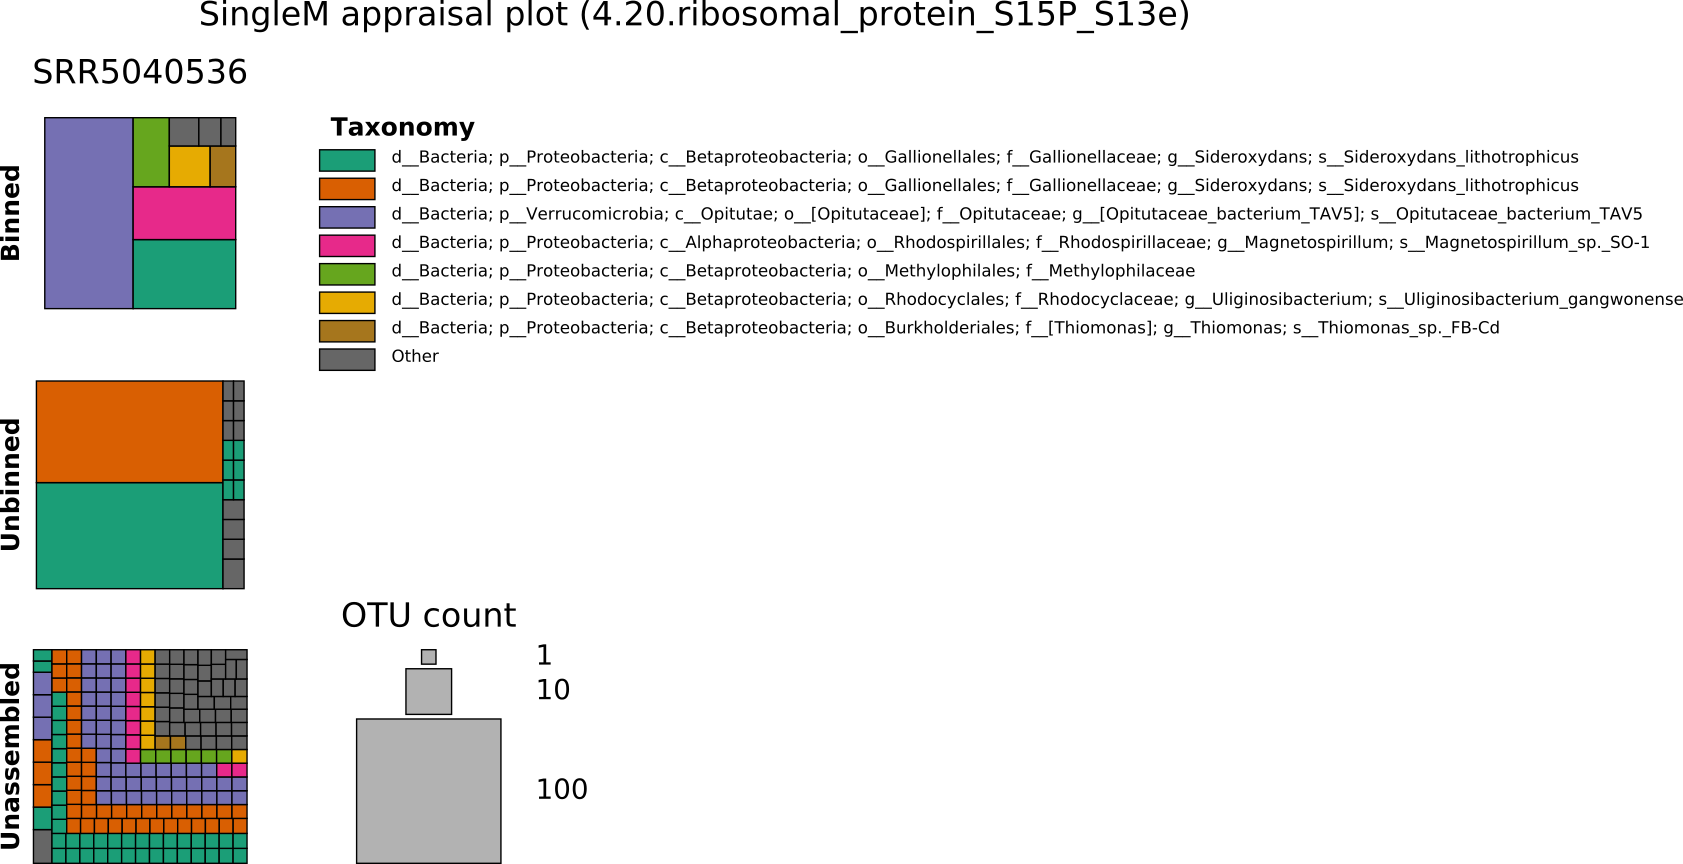
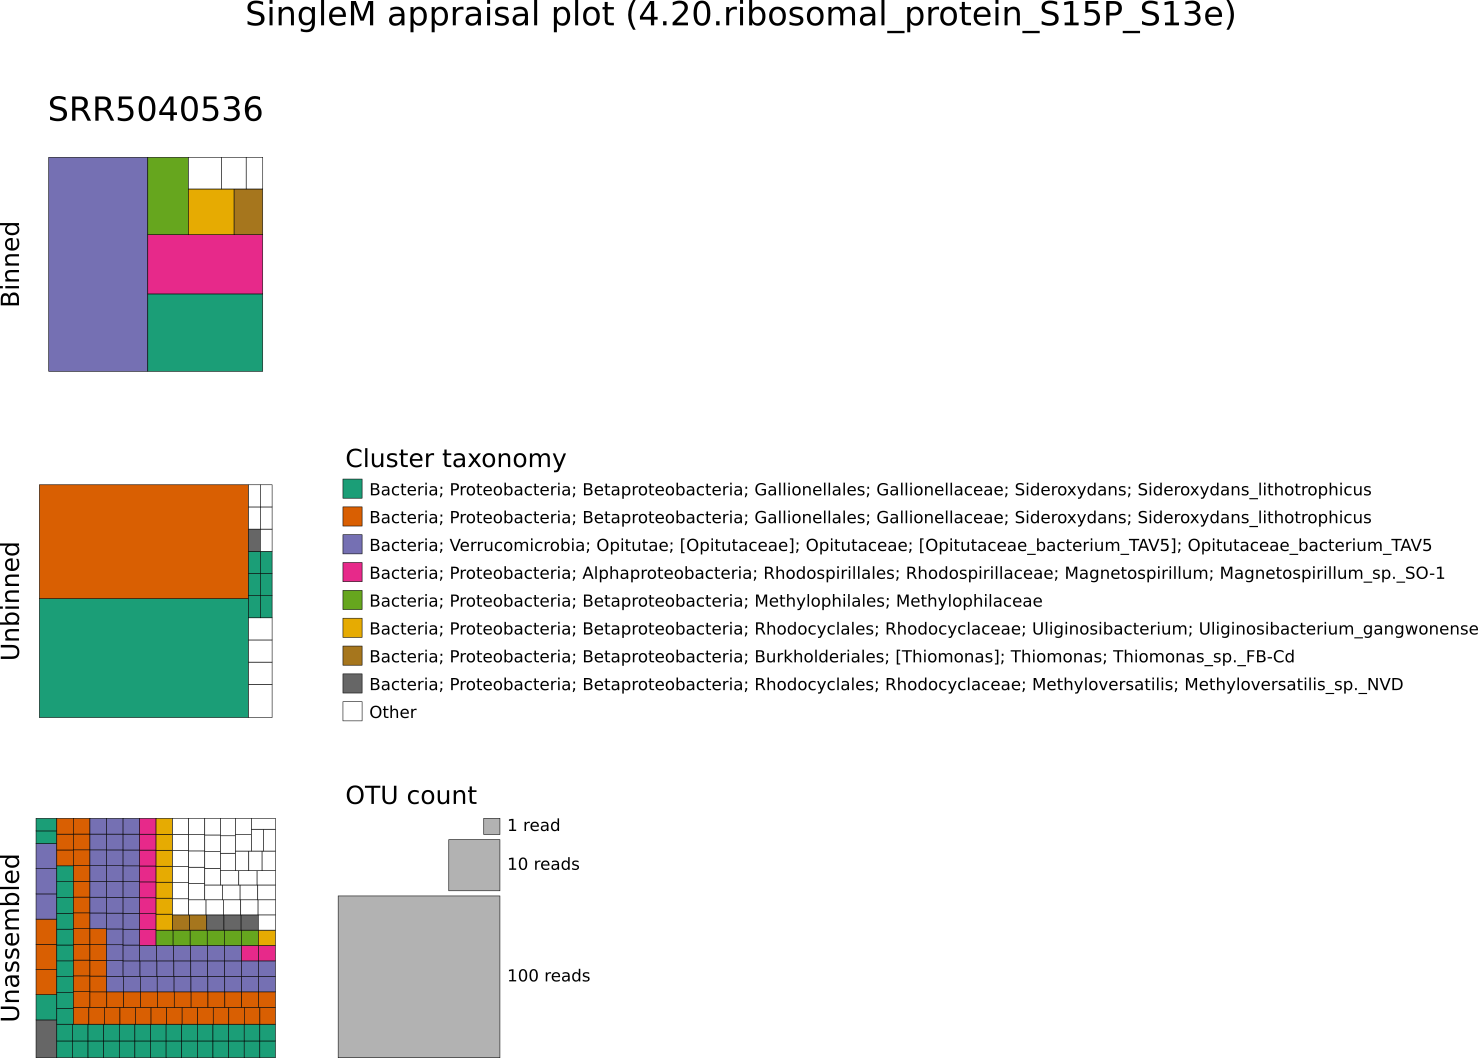
README.md: Update appraisal plot.

Changed region(s): [[0.0, 0.0625, 1.0, 1.0], [0.0, 0.4375, 0.1867, 0.6875], [0.1245, 0.0, 0.8403, 0.0312]]

diff --git a/README.md b/README.md
@@ -121,7 +121,7 @@ output OTU tables of those sequences that match and those that do not (see
 except that when assessing bins duplicate markers from the same genome are
 excluded as likely contamination.
 
-An appraisal can also be represented visually, using `appraise --plot_basename`:
+An appraisal can also be represented visually, using `appraise --plot`:
 
 ![Image of appraise](https://raw.githubusercontent.com/wwood/singlem/master/appraise_plot.png)
 
@@ -130,8 +130,11 @@ abundance (the number of reads that OTU represents in the metagenome). Colours
 represent 89% OTU clustering of these sequences (~genus level), with the
 taxonomy of the most common sequence written out. Here we see that highly
 abundant OTUs in SRR5040536 were assembled, but only 1 of the 3 abundant
-betaproteobacterial OTUs has an associated bin. As is common, the highest
-abundance lineages did not necessarily assemble and bin successfully.
+Gallionellales OTUs has an associated bin. As is common, the highest abundance
+lineages did not necessarily assemble and bin successfully. The marker
+`4.20.ribosomal_protein_S15P_S13e` was chosen as the representative marker
+because it has a representative fraction of OTUs binned, assembled and
+unassembled.
 
 
 ### Installation
